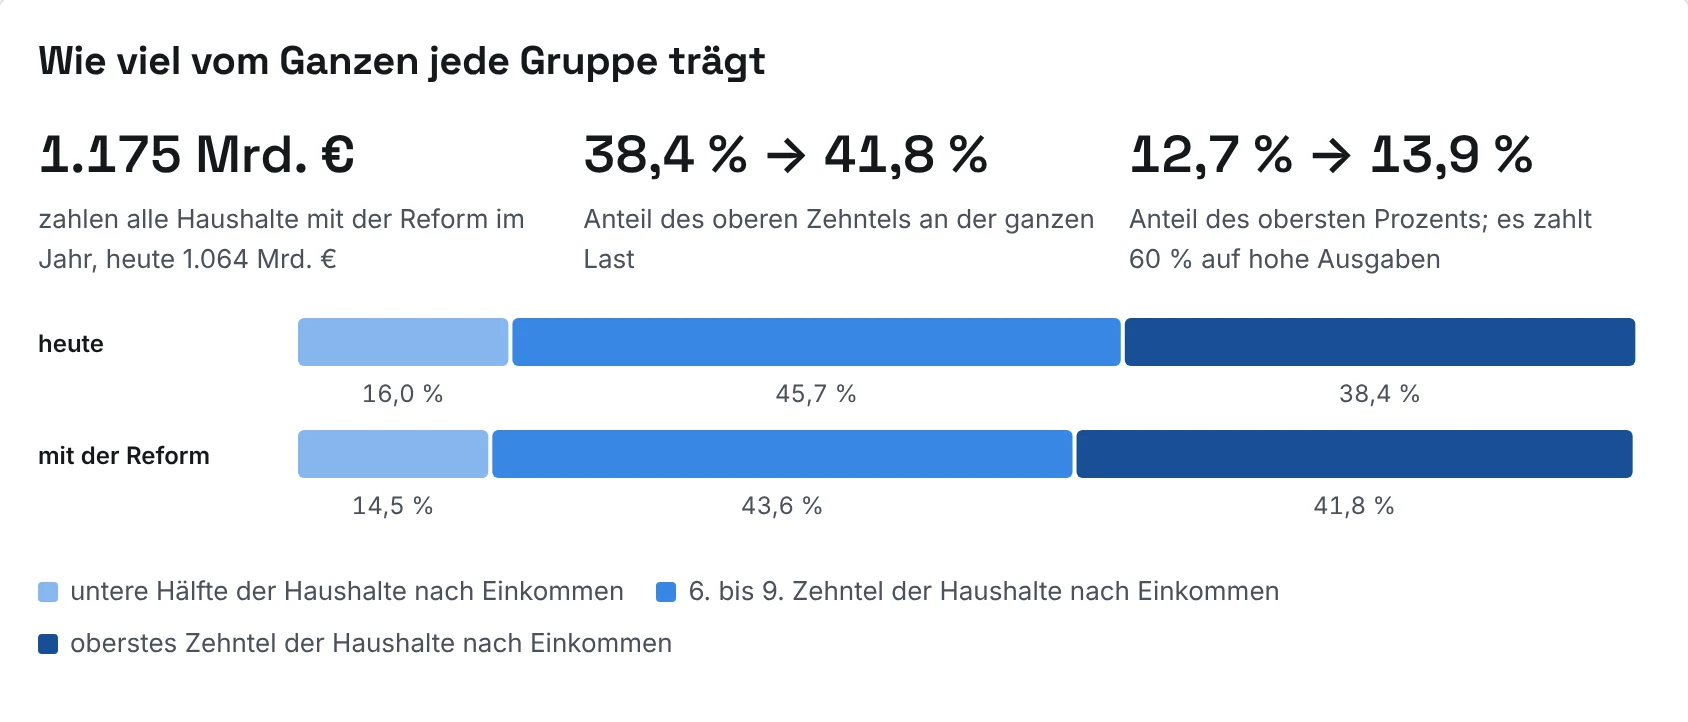
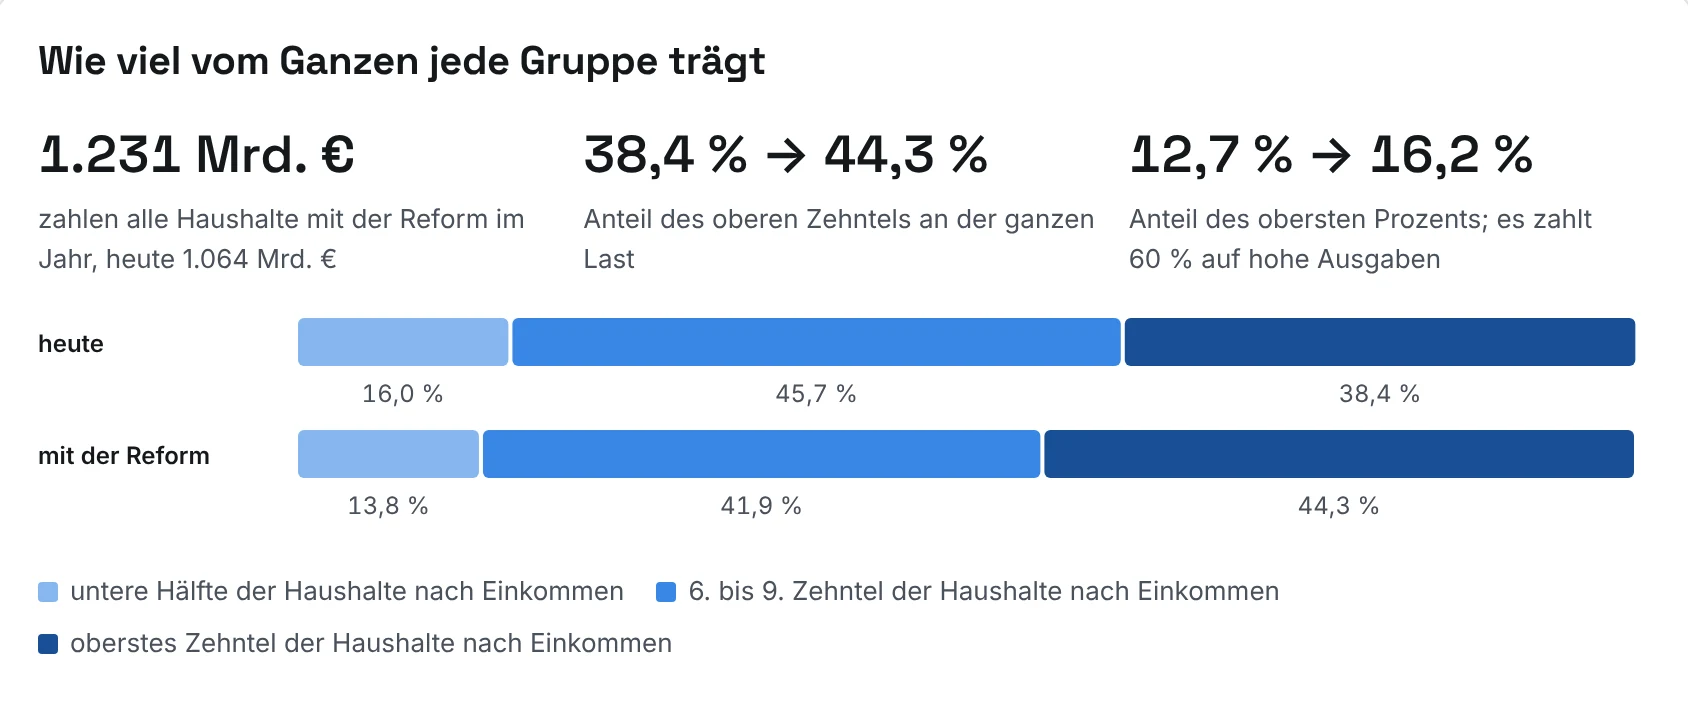
Steuerlast-Seite auf Paket 9 (Buch Version 41)
Neue Grafiken aus der Mikrosimulation mit zwei Dritteln auf Ausgaben über 5.000 €,
Zahlen aus steuerlast-v41.json, Zählung und Spanne wie im Buch (58 von 100
Erwachsenen, 62 von 100 Menschen, 52 bis 61, mindestens 50). Aufruf mit V41=1.

Claude-Session: https://claude.ai/code/session_012Y93VcoN35D38RtTTtR6vF

diff --git a/steuerlast/index.html b/steuerlast/index.html
@@ -37,34 +37,34 @@
 </div></section>
 <div class="wrap sl">
 <div class="facts">
-<div><b>58 von 100</b><span>Erwachsenen haben mehr Geld als heute, wenn sie so viel einkaufen wie heute. Mit den Kindern gezählt 61 von 100 Menschen.</span></div>
+<div><b>58 von 100</b><span>Erwachsenen haben mehr Geld als heute, wenn sie so viel einkaufen wie heute. Mit den Kindern gezählt 62 von 100 Menschen.</span></div>
 <div><b>18,8 → 6,0 %</b><span>vom Einkommen zahlt das ärmste Zehntel an Steuern und Abgaben, heute und mit der Reform.</span></div>
-<div><b>38,4 → 41,8 %</b><span>aller Steuern und Abgaben der Haushalte trägt das reichste Zehntel, heute und mit der Reform.</span></div>
+<div><b>38,4 → 44,3 %</b><span>aller Steuern und Abgaben der Haushalte trägt das reichste Zehntel, heute und mit der Reform.</span></div>
 </div>
 <figure id="steuerlast-feld-einkommen-vermoegen">
 <a href="../bilder/steuerlast/steuerlast-feld-einkommen-vermoegen.webp" title="Wer hat mehr Geld, wer weniger: Grafik groß öffnen"><img src="../bilder/steuerlast/steuerlast-feld-einkommen-vermoegen.webp" width="1688" height="1362" loading="lazy" alt="Farbfeld nach Einkommen und Vermögen: Mehr Geld haben vor allem das unterste Zehntel der Einkommen und die unteren Einkommen mit wenig Vermögen, bei mittleren Einkommen ändert sich im Mittel wenig, weniger haben vor allem Haushalte mit mehr als 310.000 € Vermögen und das oberste Zehntel der Einkommen."></a>
 <figcaption>Jedes Feld ist eine Gruppe von Erwachsenen, geordnet nach Einkommen und Vermögen ihres Haushalts. Nach rechts steigt das Einkommen, nach unten das Vermögen. Grün heißt: Die Erwachsenen der Gruppe haben im Mittel mehr Geld als heute, in Prozent ihres Einkommens. Rot heißt: weniger. Mehr Geld haben vor allem das unterste Zehntel der Einkommen und die unteren Einkommen mit wenig Vermögen. Bei mittleren Einkommen hat gut die Hälfte mehr, im Mittel ändert sich wenig. Weniger haben vor allem Erwachsene in Haushalten mit mehr als 310.000 € Vermögen und im obersten Zehntel der Einkommen. In jedem Feld haben einzelne mehr und andere weniger. Schraffierte Felder: zu wenige Fälle für eine Aussage.</figcaption>
 </figure>
 <figure id="steuerlast-nach-einkommen">
-<a href="../bilder/steuerlast/steuerlast-nach-einkommen.webp" title="Wie viel vom Einkommen an Steuern und Abgaben geht: Grafik groß öffnen"><img src="../bilder/steuerlast/steuerlast-nach-einkommen.webp" width="1688" height="982" loading="lazy" alt="Punktgrafik nach Einkommenszehnteln: Das unterste Zehntel zahlt 6,0 statt 18,8 % seines Einkommens, das oberste 48,5 statt 40,3 %."></a>
-<figcaption>Zehn gleich große Gruppen von je 4,1 Mio. Haushalten, geordnet nach dem Einkommen vor Steuern (Löhne, Gewinne, Renten, Kapitalerträge, Grundsicherung). Die Zahl hinter der Gruppe ist ihr mittleres Einkommen im Monat, die Punkte zeigen den Durchschnitt der Gruppe. Das unterste Zehntel zahlt 6,0 statt 18,8 % seines Einkommens, das oberste 48,5 statt 40,3 %. „Mit weniger“ zählt die Erwachsenen der Gruppe, die trotzdem weniger haben als heute (bei gleichem Einkauf, ohne Erbe).</figcaption>
+<a href="../bilder/steuerlast/steuerlast-nach-einkommen.webp" title="Wie viel vom Einkommen an Steuern und Abgaben geht: Grafik groß öffnen"><img src="../bilder/steuerlast/steuerlast-nach-einkommen.webp" width="1688" height="982" loading="lazy" alt="Punktgrafik nach Einkommenszehnteln: Das unterste Zehntel zahlt 6,0 statt 18,8 % seines Einkommens, das oberste 53,8 statt 40,3 %."></a>
+<figcaption>Zehn gleich große Gruppen von je 4,1 Mio. Haushalten, geordnet nach dem Einkommen vor Steuern (Löhne, Gewinne, Renten, Kapitalerträge, Grundsicherung). Die Zahl hinter der Gruppe ist ihr mittleres Einkommen im Monat, die Punkte zeigen den Durchschnitt der Gruppe. Das unterste Zehntel zahlt 6,0 statt 18,8 % seines Einkommens, das oberste 53,8 statt 40,3 %. „Mit weniger“ zählt die Erwachsenen der Gruppe, die trotzdem weniger haben als heute (bei gleichem Einkauf, ohne Erbe).</figcaption>
 </figure>
 <figure id="steuerlast-anteile">
-<a href="../bilder/steuerlast/steuerlast-anteile.webp" title="Wie viel vom Ganzen jede Gruppe trägt: Grafik groß öffnen"><img src="../bilder/steuerlast/steuerlast-anteile.webp" width="1688" height="722" loading="lazy" alt="Balken: Das oberste Zehntel trägt 41,8 statt 38,4 % aller Steuern und Abgaben der Haushalte, die untere Hälfte 14,5 statt 16,0 %."></a>
-<figcaption>Alle Haushalte zahlen mit der Reform 1.175 Mrd. € im Jahr, heute 1.064 Mrd. €. Das oberste Zehntel trägt mehr vom Ganzen als heute, 41,8 statt 38,4 %. Das oberste Prozent trägt im ersten Jahr 13,9 statt 12,7 %. Es zahlt 60 % auf Ausgaben über 5.000 € im Monat; wenn das Erbe voll wirkt, trägt es 14,3 %.</figcaption>
+<a href="../bilder/steuerlast/steuerlast-anteile.webp" title="Wie viel vom Ganzen jede Gruppe trägt: Grafik groß öffnen"><img src="../bilder/steuerlast/steuerlast-anteile.webp" width="1688" height="722" loading="lazy" alt="Balken: Das oberste Zehntel trägt 44,3 statt 38,4 % aller Steuern und Abgaben der Haushalte, die untere Hälfte 13,8 statt 16,0 %."></a>
+<figcaption>Alle Haushalte zahlen mit der Reform 1.231 Mrd. € im Jahr, heute 1.064 Mrd. €. Das oberste Zehntel trägt mehr vom Ganzen als heute, 44,3 statt 38,4 %. Das oberste Prozent trägt im ersten Jahr 16,2 statt 12,7 %. Es zahlt zwei Drittel auf Ausgaben über 5.000 € im Monat; wenn das Erbe voll wirkt, trägt es 16,5 %.</figcaption>
 </figure>
 <figure id="steuerlast-nach-vermoegen">
-<a href="../bilder/steuerlast/steuerlast-nach-vermoegen.webp" title="Wie viel vom Einkommen nach Vermögen geht: Grafik groß öffnen"><img src="../bilder/steuerlast/steuerlast-nach-vermoegen.webp" width="1688" height="812" loading="lazy" alt="Punktgrafik nach Vermögen: Haushalte unter 100.000 € Vermögen zahlen 0,6 Punkte weniger von ihrem Einkommen, Haushalte mit mehr Vermögen mehr, am meisten ab 800.000 €."></a>
-<figcaption>Gruppen nach Nettovermögen. Mit dem Vermögen steigt die Last: Wer Zinsen, Dividenden oder Mieten ausgibt, zahlt darauf wie auf Lohn. Wer im eigenen Haus wohnt, zahlt nur für den Teil, der beim Start noch nicht bezahlt ist, auf den Mietwert wie auf eine Miete; Tilgung und Zinsen für den Kredit bleiben steuerfrei. Der beim Start bezahlte Teil des Hauses bleibt frei, Ausgaben aus versteuertem Ersparten bis 1.715 € je Erwachsenem im Jahr. Auf den Teil der Ausgaben über 5.000 € im Monat je Erwachsenem gehen 60 % an die Steuer.</figcaption>
+<a href="../bilder/steuerlast/steuerlast-nach-vermoegen.webp" title="Wie viel vom Einkommen nach Vermögen geht: Grafik groß öffnen"><img src="../bilder/steuerlast/steuerlast-nach-vermoegen.webp" width="1688" height="812" loading="lazy" alt="Punktgrafik nach Vermögen: Haushalte unter 100.000 € Vermögen zahlen 0,3 Punkte weniger von ihrem Einkommen, Haushalte mit mehr Vermögen mehr, am meisten ab 800.000 €."></a>
+<figcaption>Gruppen nach Nettovermögen. Mit dem Vermögen steigt die Last: Wer Zinsen, Dividenden oder Mieten ausgibt, zahlt darauf wie auf Lohn. Wer im eigenen Haus wohnt, zahlt nur für den Teil, der beim Start noch nicht bezahlt ist, auf den Mietwert wie auf eine Miete; Tilgung und Zinsen für den Kredit bleiben steuerfrei. Der beim Start bezahlte Teil des Hauses bleibt frei, Ausgaben aus versteuertem Ersparten bis 1.715 € je Erwachsenem im Jahr. Auf den Teil der Ausgaben über 5.000 € im Monat je Erwachsenem gehen zwei Drittel an die Steuer.</figcaption>
 </figure>
 <figure id="wer-bezahlt-einkommen-vermoegen">
-<a href="../bilder/steuerlast/wer-bezahlt-einkommen-vermoegen.webp" title="Welche Einkommen und Vermögen die Reform bezahlen: Grafik groß öffnen"><img src="../bilder/steuerlast/wer-bezahlt-einkommen-vermoegen.webp" width="1688" height="1122" loading="lazy" alt="Balken nach Einkommens- und Vermögensart: Auf Löhne fallen 37,1 Mrd. € mehr, auf Gewinne eigener Firmen 38,2 Mrd. € mehr, auf vererbte Firmen 5,6 Mrd. € mehr."></a>
-<figcaption>Wie viel mehr oder weniger Steuern und Abgaben im Jahr auf jede Art von Einkommen und Vermögen fallen als heute, in Milliarden Euro. Auf Löhne fallen 37,1 Mrd. € mehr, auf Gewinne eigener Firmen 38,2 Mrd. € mehr. Beim Erbe zahlen Firmen 5,6 Mrd. € mehr, 12,6 Mrd. €, wenn der Staatsanteil am Erbe voll wirkt: Heute sind vererbte Firmen zu 85 % verschont, mit der Reform zählt alles voll. Zusammen tragen die Haushalte 110 Mrd. € mehr als heute; ohne den Zuschlag für heutige Rentner (10 Mrd. €, ihre Rente kauft 4 % mehr) wären es 120 Mrd. €. Steuern von Firmen, die nicht den Haushalten gehören, sind nicht enthalten.</figcaption>
+<a href="../bilder/steuerlast/wer-bezahlt-einkommen-vermoegen.webp" title="Welche Einkommen und Vermögen die Reform bezahlen: Grafik groß öffnen"><img src="../bilder/steuerlast/wer-bezahlt-einkommen-vermoegen.webp" width="1688" height="1122" loading="lazy" alt="Balken nach Einkommens- und Vermögensart: Auf Löhne fallen 64,7 Mrd. € mehr, auf Gewinne eigener Firmen 57,5 Mrd. € mehr, auf vererbte Firmen 5,6 Mrd. € mehr."></a>
+<figcaption>Wie viel mehr oder weniger Steuern und Abgaben im Jahr auf jede Art von Einkommen und Vermögen fallen als heute, in Milliarden Euro. Auf Löhne fallen 64,7 Mrd. € mehr, auf Gewinne eigener Firmen 57,5 Mrd. € mehr. Beim Erbe zahlen Firmen 5,6 Mrd. € mehr, 12,6 Mrd. €, wenn der Staatsanteil am Erbe voll wirkt: Heute sind vererbte Firmen zu 85 % verschont, mit der Reform zählt alles voll. Zusammen tragen die Haushalte 167 Mrd. € mehr als heute; ohne den Zuschlag für heutige Rentner (10 Mrd. €, ihre Rente kauft 4 % mehr) wären es 176 Mrd. €. Steuern von Firmen, die nicht den Haushalten gehören, sind nicht enthalten.</figcaption>
 </figure>
 <div class="methode">
 <h2>Wie gerechnet wurde</h2>
 <p>Rund 46.000 künstliche Haushalte stehen für alle 41 Mio. Haushalte in Deutschland, mit 68,2 Mio. Erwachsenen und 82,3 Mio. Menschen. Sie sind auf amtliche Zahlen geeicht: Löhne und Konsum aus der Volkswirtschaftlichen Gesamtrechnung 2025, Lohn- und Einkommensteuer aus den Steuereinnahmen 2025, Vermögen aus der Vermögensbefragung der Bundesbank 2023 mit einer Zuschätzung der Reichsten, Sparen aus der Einkommens- und Verbrauchsstichprobe.</p>
-<p>Heute: Lohn- und Einkommensteuer mit Soli, Sozialbeiträge, Abgeltungsteuer, Körperschaftsteuer auf eigene Firmen, Mehrwertsteuer, Erbschaft- und Schenkungsteuer. Mit der Reform: Ausgabensteuer über dem Freibetrag von 1.200 € im Monat je Erwachsenem, auf den Teil der Ausgaben über 5.000 € im Monat 60 %, höhere Mehrwertsteuer auf denselben Einkauf, die verbleibenden Beiträge und der Staatsanteil am Erbe, abzüglich der Auszahlungen an die Haushalte. Das Erbe zählt als erwartete Steuer im Jahr. Wie jede Schätzung hängt das Ergebnis an Annahmen: Gezählt werden Erwachsene über 18: Jeder zählt mit dem Plus seines Haushalts geteilt durch die Erwachsenen darin, erwachsene Kinder bei den Eltern zählen für sich, Kinder unter 18 mit ihrem Haushalt. Im gezeigten Fall haben 58 von 100 Erwachsenen mehr Geld. Rechnet man mit anderen vertretbaren Annahmen, die zu den amtlichen Zahlen über Einkauf und Sparen passen, haben zwischen 52 und 62 von 100 Erwachsenen mehr. Selbst wenn man einzelne Annahmen bis an den Rand verschiebt, sind es mindestens 49. Weniger haben im gezeigten Fall 28,7 Mio. Erwachsene, im Mittel 556 € im Monat; mit anderen vertretbaren Annahmen 26,0 bis 32,3 Mio., am Rand höchstens 34,7 Mio. Die Grafiken ordnen nach Einkommen und Vermögen des Haushalts und zählen die erwachsenen Kinder bei den Eltern nicht mit. Jeden einzelnen Haushalt rechnet der <a href="../steuerrechner/">Steuerrechner</a> nach, die ganze Rechnung steht im <a href="../buch/">Buch</a>.</p>
+<p>Heute: Lohn- und Einkommensteuer mit Soli, Sozialbeiträge, Abgeltungsteuer, Körperschaftsteuer auf eigene Firmen, Mehrwertsteuer, Erbschaft- und Schenkungsteuer. Mit der Reform: Ausgabensteuer über dem Freibetrag von 1.200 € im Monat je Erwachsenem, auf den Teil der Ausgaben über 5.000 € im Monat zwei Drittel, höhere Mehrwertsteuer auf denselben Einkauf, die verbleibenden Beiträge und der Staatsanteil am Erbe, abzüglich der Auszahlungen an die Haushalte. Das Erbe zählt als erwartete Steuer im Jahr. Wie jede Schätzung hängt das Ergebnis an Annahmen: Gezählt werden Erwachsene über 18: Jeder zählt mit dem Plus seines Haushalts geteilt durch die Erwachsenen darin, erwachsene Kinder bei den Eltern zählen für sich, Kinder unter 18 mit ihrem Haushalt. Im gezeigten Fall haben 58 von 100 Erwachsenen mehr Geld. Rechnet man mit anderen vertretbaren Annahmen, die zu den amtlichen Zahlen über Einkauf und Sparen passen, haben zwischen 52 und 61 von 100 Erwachsenen mehr. Selbst wenn man einzelne Annahmen bis an den Rand verschiebt, sind es mindestens 50. Weniger haben im gezeigten Fall 28,4 Mio. Erwachsene, im Mittel 737 € im Monat. Die Grafiken ordnen nach Einkommen und Vermögen des Haushalts und zählen die erwachsenen Kinder bei den Eltern nicht mit. Jeden einzelnen Haushalt rechnet der <a href="../steuerrechner/">Steuerrechner</a> nach, die ganze Rechnung steht im <a href="../buch/">Buch</a>.</p>
 </div>
 </div>
 </main>

diff --git a/werkzeug/steuerlast-seite.py b/werkzeug/steuerlast-seite.py
@@ -3,7 +3,10 @@ import re
 R = '/home/user/mut-zur-zukunft/'
 import json
 M = '/mnt/project-files/rechenmodell-mikrosim/v0.3/'
-J = json.load(open(M + 'steuerlast.json'))
+import os
+V41 = os.environ.get('V41') == '1'   # Buch Version 41: Paket 9 (zwei Drittel über 5.000 €), Daten aus dem Buch
+B41 = '/mnt/project-files/broschuere-mut-zur-zukunft/version-41/'
+J = json.load(open(B41 + 'daten/steuerlast-v41.json' if V41 else M + 'steuerlast.json'))
 UB = json.load(open(M + 'uebergabe-v36.json'))   # Paket 6 (uebergabe-v35.json ist der Stand ohne Paket)
 def k(x, n=1):
     t = f"{abs(x):,.{n}f}".replace(",", "X").replace(".", ",").replace("X", ".")
@@ -15,7 +18,8 @@ def diff(name, lang=False, liste='einkommen'):
     return a['reform_lang_mrd' if lang else 'reform_mrd'] - a['heute_mrd']
 E, MS = J['erwachsene'], J['menschen']
 SG = UB['spanne_gewaehlt']
-assert SG['punktwert']['von_100'] == E['von_100']['mehr'], ('Spanne passt nicht zu steuerlast.json', SG['punktwert'], E['von_100'])
+if not V41:
+    assert SG['punktwert']['von_100'] == E['von_100']['mehr'], ('Spanne passt nicht zu steuerlast.json', SG['punktwert'], E['von_100'])
 N = dict(
  emehr=str(E['von_100']['mehr']), eweniger=str(E['weniger_zusammen']), mmehr=str(MS['von_100']['mehr']), erw=k(E['erwachsene_mio'], 1), mensch=k(MS['menschen_mio'], 1),
  sw1=k(SG['gewaehlt']['erwachsene_weniger_mio_von_bis'][0]), sw2=k(SG['gewaehlt']['erwachsene_weniger_mio_von_bis'][1]), swr=k(SG['rand']['erwachsene_weniger_mio_hoechstens']), satzb=SG['satz_buch'],
@@ -33,6 +37,17 @@ N = dict(
  qh=k(J['aufbau'][0]['sparquote_heute']), qr=k(J['aufbau'][0]['sparquote_reform']),
  sq=k(J['aufbau'][0]['sparquote_reform']), vm=k(J['aufbau'][0]['vermoegen_mittel'], 0), vp=k(J['vermoegen'][0]['quote_heute'] - J['vermoegen'][0]['quote_reform']),
 )
+S4 = 'zwei Drittel' if V41 else '60 %'
+if V41:
+    # Zählung wie im Buch (werte-v41.json): Erwachsene und Menschen mit der Entlastung der Bildungsregel, Spanne aus der genaueren Rechnung
+    W = json.load(open(B41 + 'werte-v41.json'))
+    AE, AM = W['aufteilung_100_erwachsene'], W['aufteilung_100_menschen']
+    sp = AE['spanne_mehr_von_100']
+    N.update(emehr=str(AE['von_100']['mehr']), eweniger=str(AE['weniger_zusammen_von_100']), mmehr=str(AM['von_100']['mehr']),
+             weniger=k(AE['weniger']['erwachsene_mio']), wmittel=k(AE['weniger']['mittel_monat'], 0),
+             satzb=f"Rechnet man mit anderen vertretbaren Annahmen, die zu den amtlichen Zahlen über Einkauf und Sparen passen, haben zwischen {sp[0]} und {sp[1]} von 100 Erwachsenen mehr. Selbst wenn man einzelne Annahmen bis an den Rand verschiebt, sind es mindestens {AE['spanne_mindestens_von_100']}.")
+N['s4'] = S4
+N['swsatz'] = '' if V41 else f"; mit anderen vertretbaren Annahmen {N['sw1']} bis {N['sw2']} Mio., am Rand höchstens {N['swr']} Mio."
 print(J['stand'], N)
 u = open(R + 'ueber-mich.html').read()
 header = re.search(r'<header class="top">.*?</header>', u, re.S).group(0)
@@ -49,10 +64,10 @@ G = [
   "Zehn gleich große Gruppen von je 4,1 Mio. Haushalten, geordnet nach dem Einkommen vor Steuern (Löhne, Gewinne, Renten, Kapitalerträge, Grundsicherung). Die Zahl hinter der Gruppe ist ihr mittleres Einkommen im Monat, die Punkte zeigen den Durchschnitt der Gruppe. Das unterste Zehntel zahlt «z1r» statt «z1h» % seines Einkommens, das oberste «z10r» statt «z10h» %. „Mit weniger“ zählt die Erwachsenen der Gruppe, die trotzdem weniger haben als heute (bei gleichem Einkauf, ohne Erbe)."),
  ("steuerlast-anteile", 1688, 722, "Wie viel vom Ganzen jede Gruppe trägt",
   "Balken: Das oberste Zehntel trägt «orr» statt «oh» % aller Steuern und Abgaben der Haushalte, die untere Hälfte «ur» statt «uh» %.",
-  "Alle Haushalte zahlen mit der Reform «gr» Mrd. € im Jahr, heute «gh» Mrd. €. Das oberste Zehntel trägt mehr vom Ganzen als heute, «orr» statt «oh» %. Das oberste Prozent trägt im ersten Jahr «p1r» statt «p1h» %. Es zahlt 60 % auf Ausgaben über 5.000 € im Monat; wenn das Erbe voll wirkt, trägt es «p1l» %."),
+  "Alle Haushalte zahlen mit der Reform «gr» Mrd. € im Jahr, heute «gh» Mrd. €. Das oberste Zehntel trägt mehr vom Ganzen als heute, «orr» statt «oh» %. Das oberste Prozent trägt im ersten Jahr «p1r» statt «p1h» %. Es zahlt «s4» auf Ausgaben über 5.000 € im Monat; wenn das Erbe voll wirkt, trägt es «p1l» %."),
  ("steuerlast-nach-vermoegen", 1688, 702, "Wie viel vom Einkommen nach Vermögen geht",
   "Punktgrafik nach Vermögen: Haushalte unter 100.000 € Vermögen zahlen «vp» Punkte weniger von ihrem Einkommen, Haushalte mit mehr Vermögen mehr, am meisten ab 800.000 €.",
-  "Gruppen nach Nettovermögen. Mit dem Vermögen steigt die Last: Wer Zinsen, Dividenden oder Mieten ausgibt, zahlt darauf wie auf Lohn. Wer im eigenen Haus wohnt, zahlt nur für den Teil, der beim Start noch nicht bezahlt ist, auf den Mietwert wie auf eine Miete; Tilgung und Zinsen für den Kredit bleiben steuerfrei. Der beim Start bezahlte Teil des Hauses bleibt frei, Ausgaben aus versteuertem Ersparten bis 1.715 € je Erwachsenem im Jahr. Auf den Teil der Ausgaben über 5.000 € im Monat je Erwachsenem gehen 60 % an die Steuer."),
+  "Gruppen nach Nettovermögen. Mit dem Vermögen steigt die Last: Wer Zinsen, Dividenden oder Mieten ausgibt, zahlt darauf wie auf Lohn. Wer im eigenen Haus wohnt, zahlt nur für den Teil, der beim Start noch nicht bezahlt ist, auf den Mietwert wie auf eine Miete; Tilgung und Zinsen für den Kredit bleiben steuerfrei. Der beim Start bezahlte Teil des Hauses bleibt frei, Ausgaben aus versteuertem Ersparten bis 1.715 € je Erwachsenem im Jahr. Auf den Teil der Ausgaben über 5.000 € im Monat je Erwachsenem gehen «s4» an die Steuer."),
  ("wer-bezahlt-einkommen-vermoegen", 1688, 1122, "Welche Einkommen und Vermögen die Reform bezahlen",
   "Balken nach Einkommens- und Vermögensart: Auf Löhne fallen «lohn» Mrd. € «lohnw», auf Gewinne eigener Firmen «gew» Mrd. € mehr, auf vererbte Firmen «firm» Mrd. € mehr.",
   "Wie viel mehr oder weniger Steuern und Abgaben im Jahr auf jede Art von Einkommen und Vermögen fallen als heute, in Milliarden Euro. Auf Löhne fallen «lohn» Mrd. € «lohnw», auf Gewinne eigener Firmen «gew» Mrd. € mehr. Beim Erbe zahlen Firmen «firm» Mrd. € mehr, «firml» Mrd. €, wenn der Staatsanteil am Erbe voll wirkt: Heute sind vererbte Firmen zu 85 % verschont, mit der Reform zählt alles voll. Zusammen tragen die Haushalte «summe» Mrd. € «summew» als heute; ohne den Zuschlag für heutige Rentner («ausgl» Mrd. €, ihre Rente kauft 4 % mehr) wären es «summe2» Mrd. €. Steuern von Firmen, die nicht den Haushalten gehören, sind nicht enthalten."),
@@ -117,7 +132,7 @@ html = f'''<!doctype html>
 <div class="methode">
 <h2>Wie gerechnet wurde</h2>
 <p>Rund 46.000 künstliche Haushalte stehen für alle 41 Mio. Haushalte in Deutschland, mit «erw» Mio. Erwachsenen und «mensch» Mio. Menschen. Sie sind auf amtliche Zahlen geeicht: Löhne und Konsum aus der Volkswirtschaftlichen Gesamtrechnung 2025, Lohn- und Einkommensteuer aus den Steuereinnahmen 2025, Vermögen aus der Vermögensbefragung der Bundesbank 2023 mit einer Zuschätzung der Reichsten, Sparen aus der Einkommens- und Verbrauchsstichprobe.</p>
-<p>Heute: Lohn- und Einkommensteuer mit Soli, Sozialbeiträge, Abgeltungsteuer, Körperschaftsteuer auf eigene Firmen, Mehrwertsteuer, Erbschaft- und Schenkungsteuer. Mit der Reform: Ausgabensteuer über dem Freibetrag von 1.200 € im Monat je Erwachsenem, auf den Teil der Ausgaben über 5.000 € im Monat 60 %, höhere Mehrwertsteuer auf denselben Einkauf, die verbleibenden Beiträge und der Staatsanteil am Erbe, abzüglich der Auszahlungen an die Haushalte. Das Erbe zählt als erwartete Steuer im Jahr. Wie jede Schätzung hängt das Ergebnis an Annahmen: Gezählt werden Erwachsene über 18: Jeder zählt mit dem Plus seines Haushalts geteilt durch die Erwachsenen darin, erwachsene Kinder bei den Eltern zählen für sich, Kinder unter 18 mit ihrem Haushalt. Im gezeigten Fall haben «emehr» von 100 Erwachsenen mehr Geld. «satzb» Weniger haben im gezeigten Fall «weniger» Mio. Erwachsene, im Mittel «wmittel» € im Monat; mit anderen vertretbaren Annahmen «sw1» bis «sw2» Mio., am Rand höchstens «swr» Mio. Die Grafiken ordnen nach Einkommen und Vermögen des Haushalts und zählen die erwachsenen Kinder bei den Eltern nicht mit. Jeden einzelnen Haushalt rechnet der <a href="../steuerrechner/">Steuerrechner</a> nach, die ganze Rechnung steht im <a href="../buch/">Buch</a>.</p>
+<p>Heute: Lohn- und Einkommensteuer mit Soli, Sozialbeiträge, Abgeltungsteuer, Körperschaftsteuer auf eigene Firmen, Mehrwertsteuer, Erbschaft- und Schenkungsteuer. Mit der Reform: Ausgabensteuer über dem Freibetrag von 1.200 € im Monat je Erwachsenem, auf den Teil der Ausgaben über 5.000 € im Monat «s4», höhere Mehrwertsteuer auf denselben Einkauf, die verbleibenden Beiträge und der Staatsanteil am Erbe, abzüglich der Auszahlungen an die Haushalte. Das Erbe zählt als erwartete Steuer im Jahr. Wie jede Schätzung hängt das Ergebnis an Annahmen: Gezählt werden Erwachsene über 18: Jeder zählt mit dem Plus seines Haushalts geteilt durch die Erwachsenen darin, erwachsene Kinder bei den Eltern zählen für sich, Kinder unter 18 mit ihrem Haushalt. Im gezeigten Fall haben «emehr» von 100 Erwachsenen mehr Geld. «satzb» Weniger haben im gezeigten Fall «weniger» Mio. Erwachsene, im Mittel «wmittel» € im Monat«swsatz». Die Grafiken ordnen nach Einkommen und Vermögen des Haushalts und zählen die erwachsenen Kinder bei den Eltern nicht mit. Jeden einzelnen Haushalt rechnet der <a href="../steuerrechner/">Steuerrechner</a> nach, die ganze Rechnung steht im <a href="../buch/">Buch</a>.</p>
 </div>
 </div>
 </main>

diff --git a/werkzeug/steuerlast-schnitt.py b/werkzeug/steuerlast-schnitt.py
@@ -1,5 +1,6 @@
 from PIL import Image, ImageDraw
-D='/mnt/project-files/rechenmodell-mikrosim/v0.3/steuerlast/'
+import os
+D=os.environ.get('QUELLE','/mnt/project-files/rechenmodell-mikrosim/v0.3/steuerlast/')   # Buch Version 41: .../version-41/steuerlast/
 O='/home/user/mut-zur-zukunft/bilder/steuerlast/'
 plan={
  'steuerlast-feld-einkommen-vermoegen':[(8,100),(200,1440)],
@@ -10,6 +11,8 @@ plan={
  'vermoegen-sparen':[(8,100),(200,1240)],
 }
 for f,segs in plan.items():
+    if not os.path.exists(D+f+'.png'):
+        print(f,'fehlt in der Quelle, bleibt wie es ist'); continue
     im=Image.open(D+f+'.png').convert('RGB')
     if f=='steuerlast-nach-einkommen':
         ImageDraw.Draw(im).rectangle([1080,36,1680,120],fill=(255,255,255))
